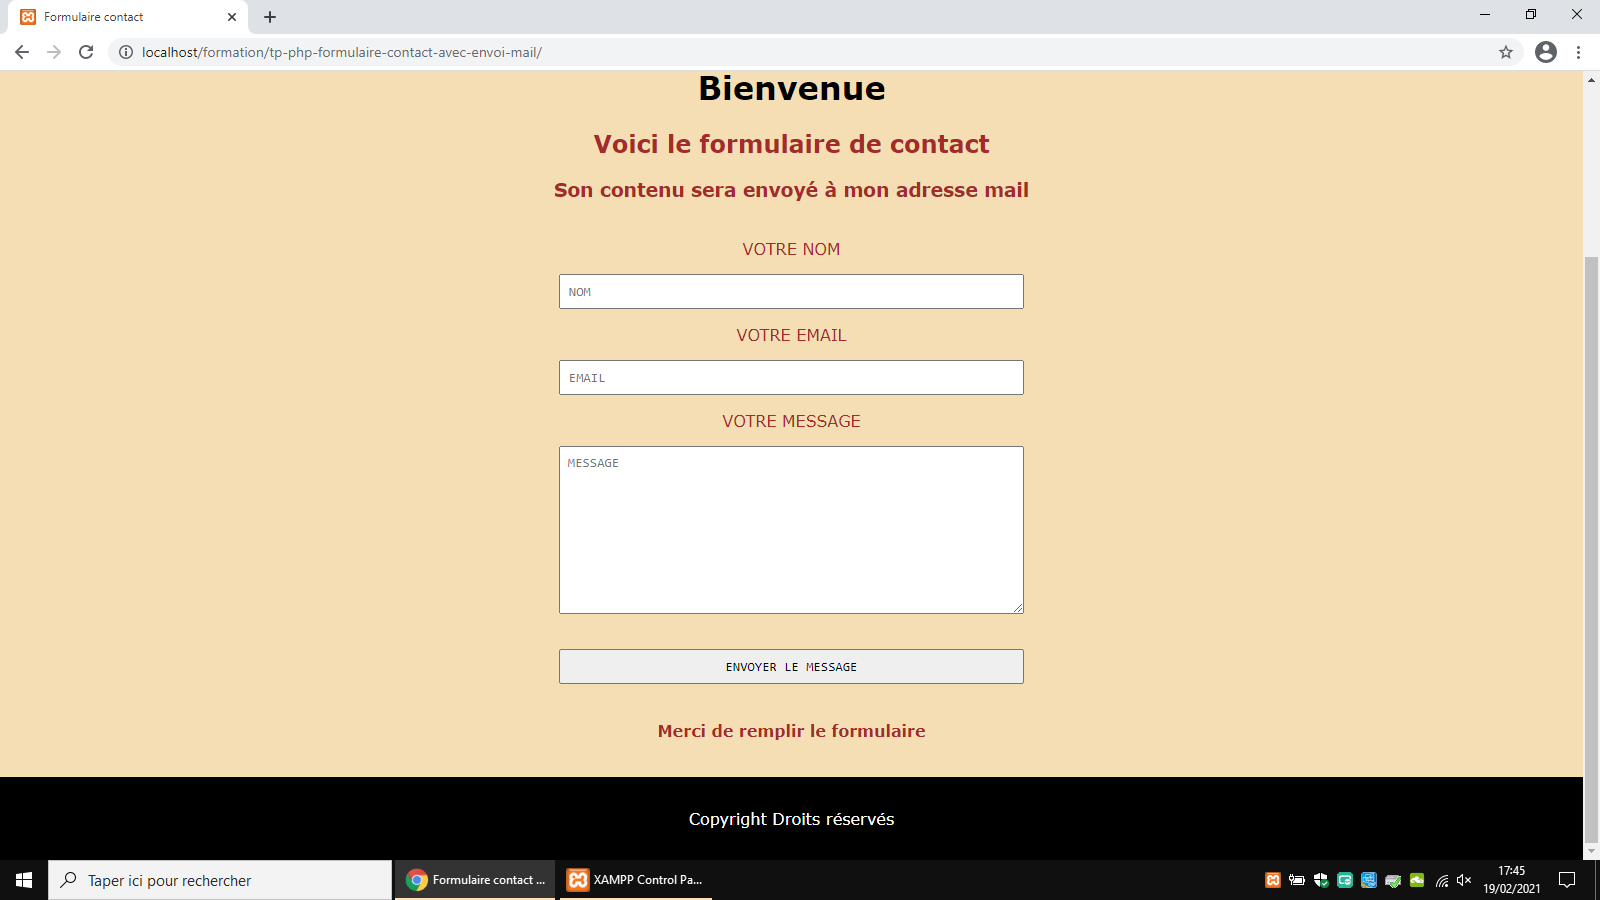
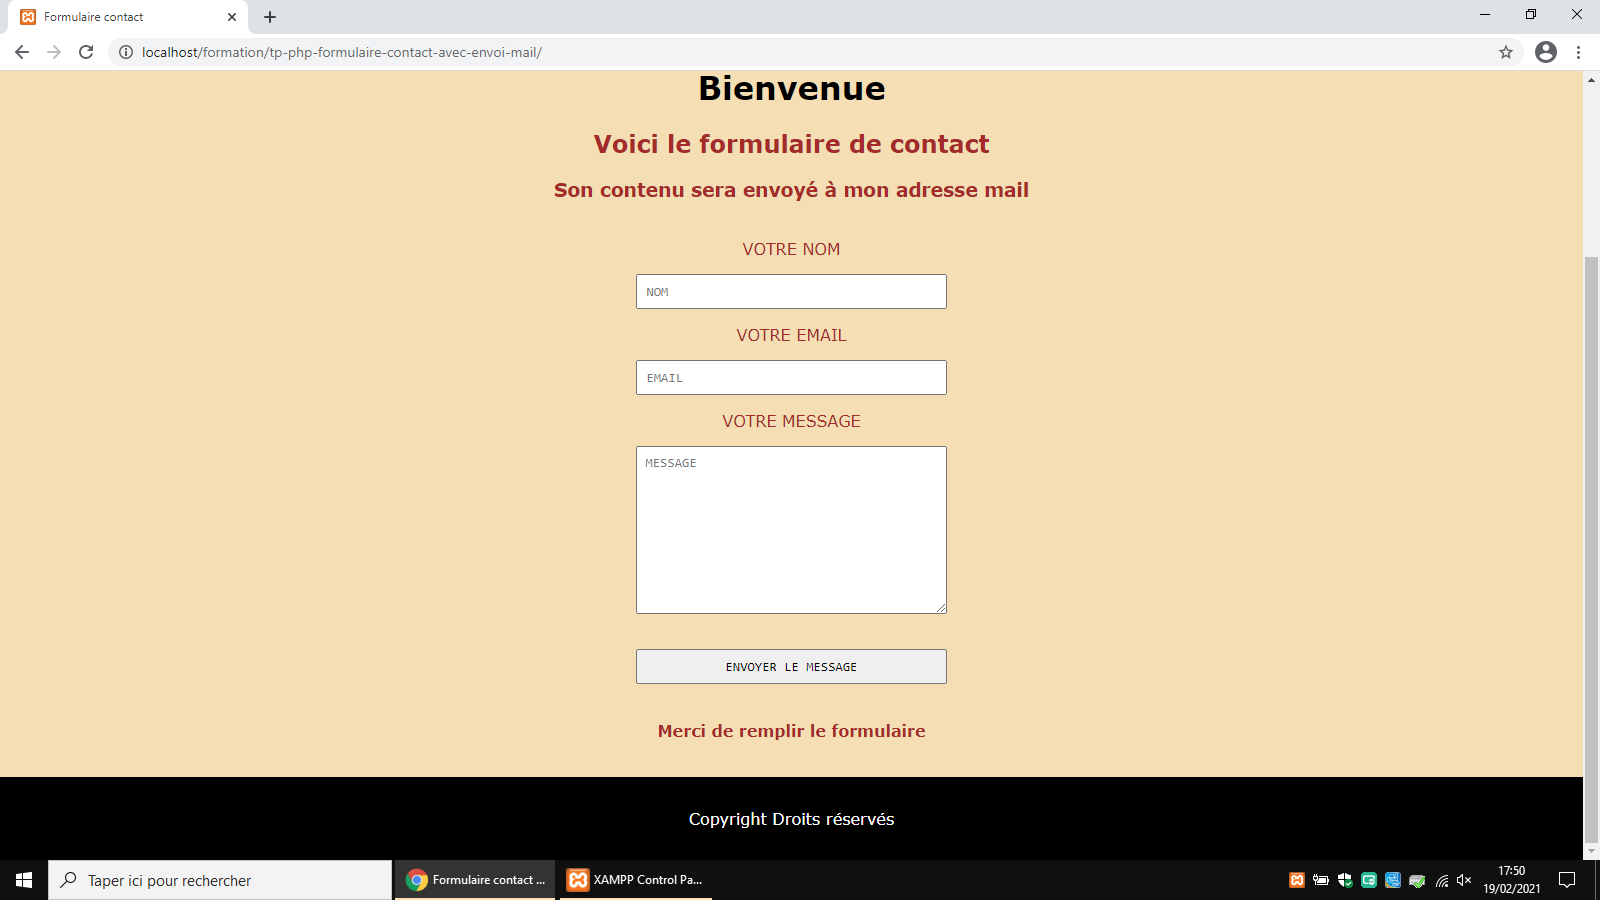
modification images

diff --git a/assets/css/style.css b/assets/css/style.css
@@ -67,7 +67,7 @@ form {
 }
 
 input, textarea, button {
-    width: 30%;
+    width: 20%;
     padding: 0.5rem;
     margin: 1rem;
     font-family: monospace;
